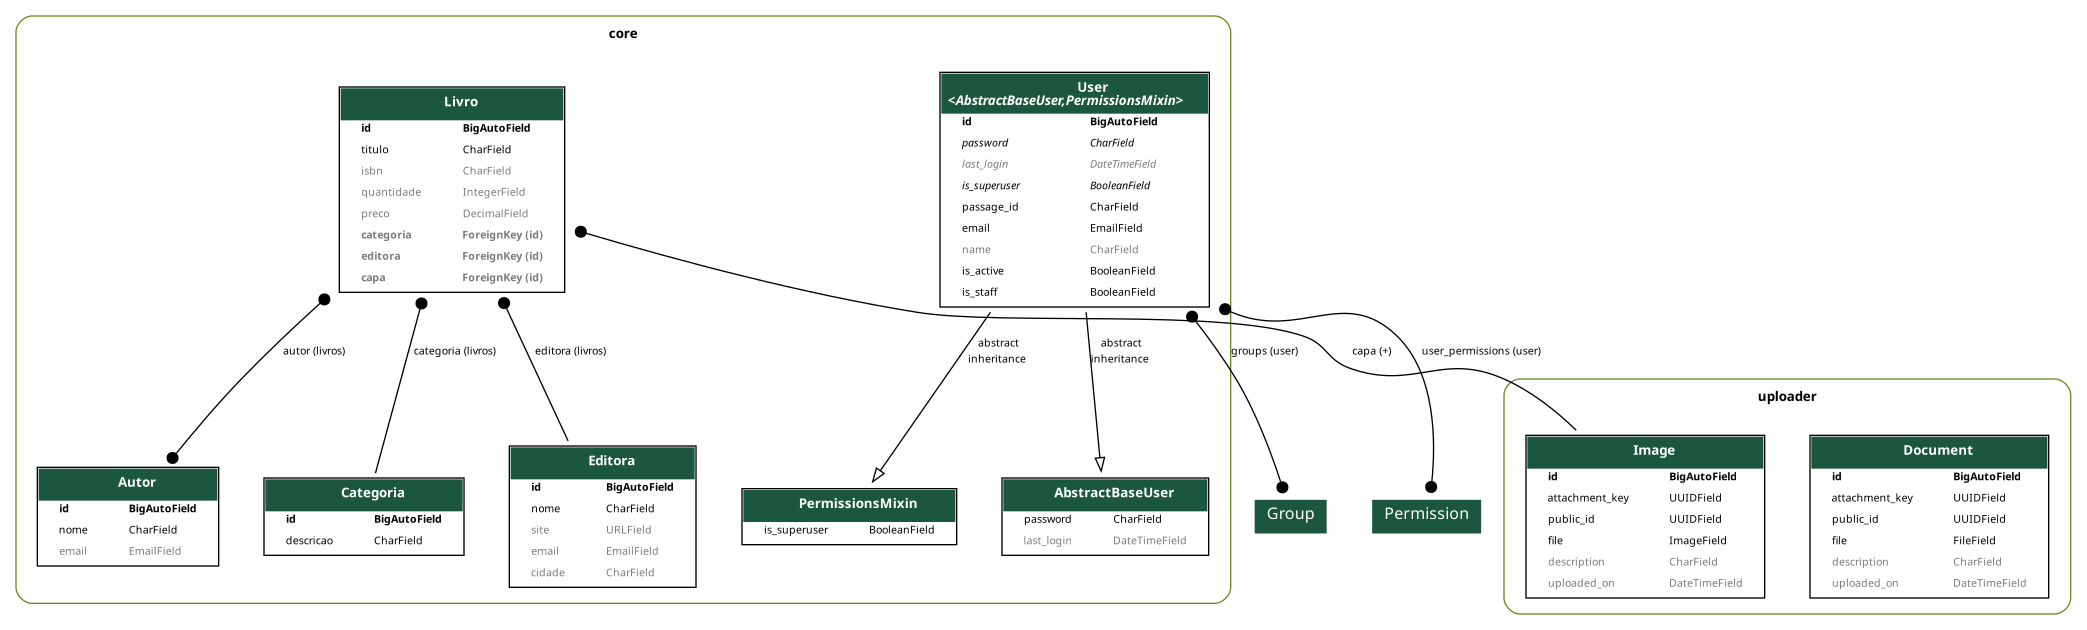
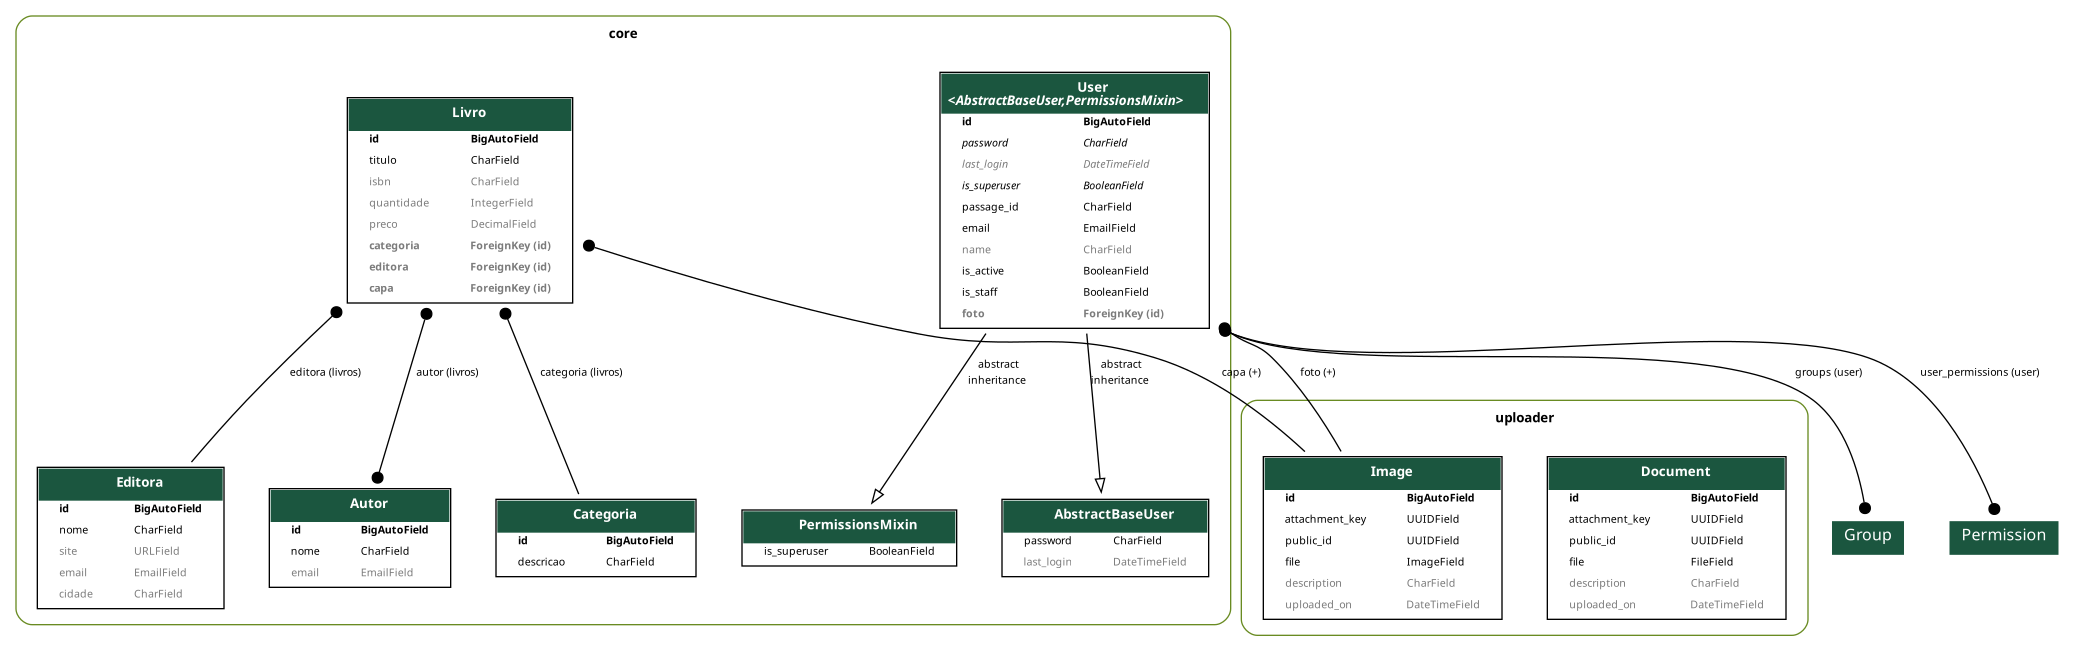
feat: incluindo foto de perfil no usuário

diff --git a/dev-web-II/livraria_backend/core/models/user.py b/dev-web-II/livraria_backend/core/models/user.py
@@ -9,6 +9,7 @@ from django.contrib.auth.models import (
 )
 from django.db import models
 from django.utils.translation import gettext_lazy as _
+from uploader.models import Image
 
 
 class UserManager(BaseUserManager):
@@ -40,34 +41,24 @@ class UserManager(BaseUserManager):
 class User(AbstractBaseUser, PermissionsMixin):
     """User model in the system."""
 
-    passage_id = models.CharField(
-        max_length=255,
-        unique=True,
-        verbose_name=_("passage_id"),
-        help_text=_("Passage ID")
-    )
-    email = models.EmailField(
-        max_length=255,
-        unique=True,
-        verbose_name=_("email"),
-        help_text=_("Email")
-        )
-    name = models.CharField(
-        max_length=255,
-        blank=True,
-        null=True,
-        verbose_name=_("name"),
-        help_text=_("Username")
-    )
+    passage_id = models.CharField(max_length=255, unique=True, verbose_name=_("passage_id"), help_text=_("Passage ID"))
+    email = models.EmailField(max_length=255, unique=True, verbose_name=_("email"), help_text=_("Email"))
+    name = models.CharField(max_length=255, blank=True, null=True, verbose_name=_("name"), help_text=_("Username"))
     is_active = models.BooleanField(
-        default=True,
-        verbose_name=_("Usuário está ativo"),
-        help_text=_("Indica que este usuário está ativo.")
+        default=True, verbose_name=_("Usuário está ativo"), help_text=_("Indica que este usuário está ativo.")
     )
     is_staff = models.BooleanField(
         default=False,
         verbose_name=_("Usuário é da equipe"),
-        help_text=_("Indica que este usuário pode acessar o Admin.")
+        help_text=_("Indica que este usuário pode acessar o Admin."),
+    )
+    foto = models.ForeignKey(
+        Image,
+        related_name="+",
+        on_delete=models.SET_NULL,
+        null=True,
+        blank=True,
+        default=None,
     )
 
     objects = UserManager()

diff --git a/dev-web-II/livraria_backend/core/migrations/0012_user_foto.py b/dev-web-II/livraria_backend/core/migrations/0012_user_foto.py
@@ -1,0 +1,27 @@
+# Generated by Django 5.1.3 on 2024-12-02 10:49
+
+import django.db.models.deletion
+from django.db import migrations, models
+
+
+class Migration(migrations.Migration):
+
+    dependencies = [
+        ("core", "0011_editora_cidade_editora_email"),
+        ("uploader", "0001_initial"),
+    ]
+
+    operations = [
+        migrations.AddField(
+            model_name="user",
+            name="foto",
+            field=models.ForeignKey(
+                blank=True,
+                default=None,
+                null=True,
+                on_delete=django.db.models.deletion.SET_NULL,
+                related_name="+",
+                to="uploader.image",
+            ),
+        ),
+    ]

diff --git a/dev-web-II/livraria_backend/core/serializers/user.py b/dev-web-II/livraria_backend/core/serializers/user.py
@@ -1,9 +1,23 @@
-from rest_framework.serializers import ModelSerializer
+from rest_framework.serializers import ModelSerializer, SlugRelatedField
 
 from core.models import User
+from uploader.models import Image
+from uploader.serializers import ImageSerializer
 
 
 class UserSerializer(ModelSerializer):
+    foto_attachment_key = SlugRelatedField(
+        source="foto",
+        queryset=Image.objects.all(),
+        slug_field="attachment_key",
+        required=False,
+        write_only=True,
+    )
+    foto = ImageSerializer(
+        required=False,
+        read_only=True,
+    )
+
     class Meta:
         model = User
         fields = "__all__"

diff --git a/dev-web-II/livraria_backend/core/admin.py b/dev-web-II/livraria_backend/core/admin.py
@@ -17,7 +17,7 @@ class UserAdmin(BaseUserAdmin):
     list_display = ["email", "name"]
     fieldsets = (
         (None, {"fields": ("email", "password")}),
-        (_("Personal Info"), {"fields": ("name", "passage_id")}),
+        (_("Personal Info"), {"fields": ("name", "passage_id", "foto")}),
         (
             _("Permissions"),
             {

diff --git a/dev-web-II/livraria_backend/core/views/categoria.py b/dev-web-II/livraria_backend/core/views/categoria.py
@@ -2,6 +2,7 @@ from rest_framework.viewsets import ModelViewSet
 from core.models import Categoria
 from core.serializers import CategoriaSerializer
 
+
 class CategoriaViewSet(ModelViewSet):
     queryset = Categoria.objects.all()
     serializer_class = CategoriaSerializer
